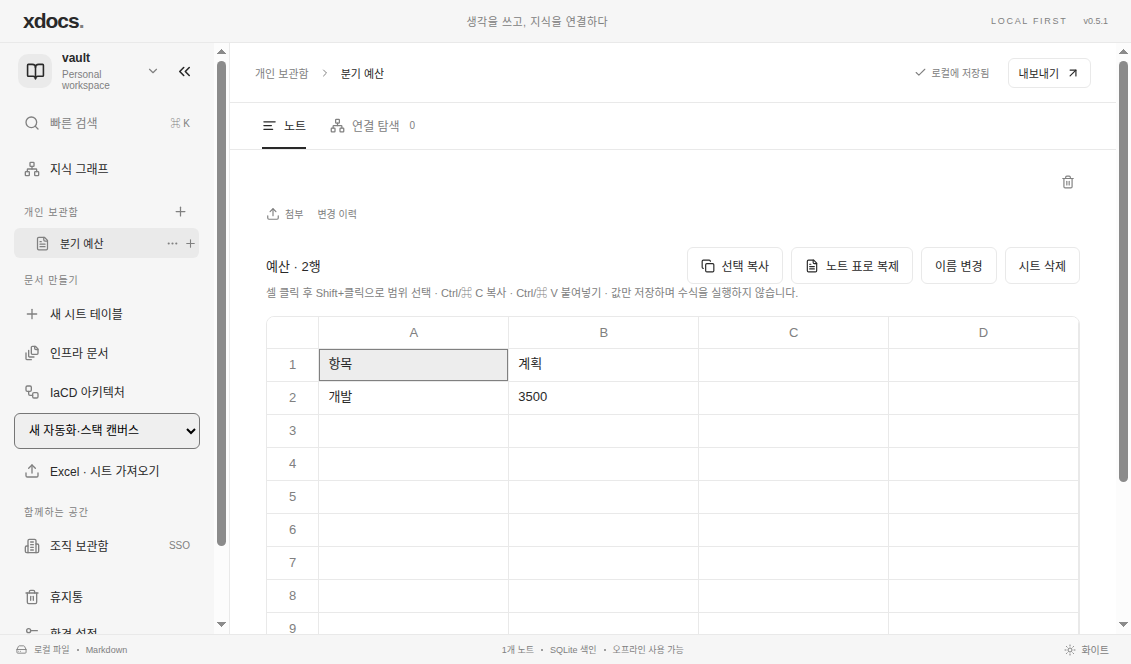
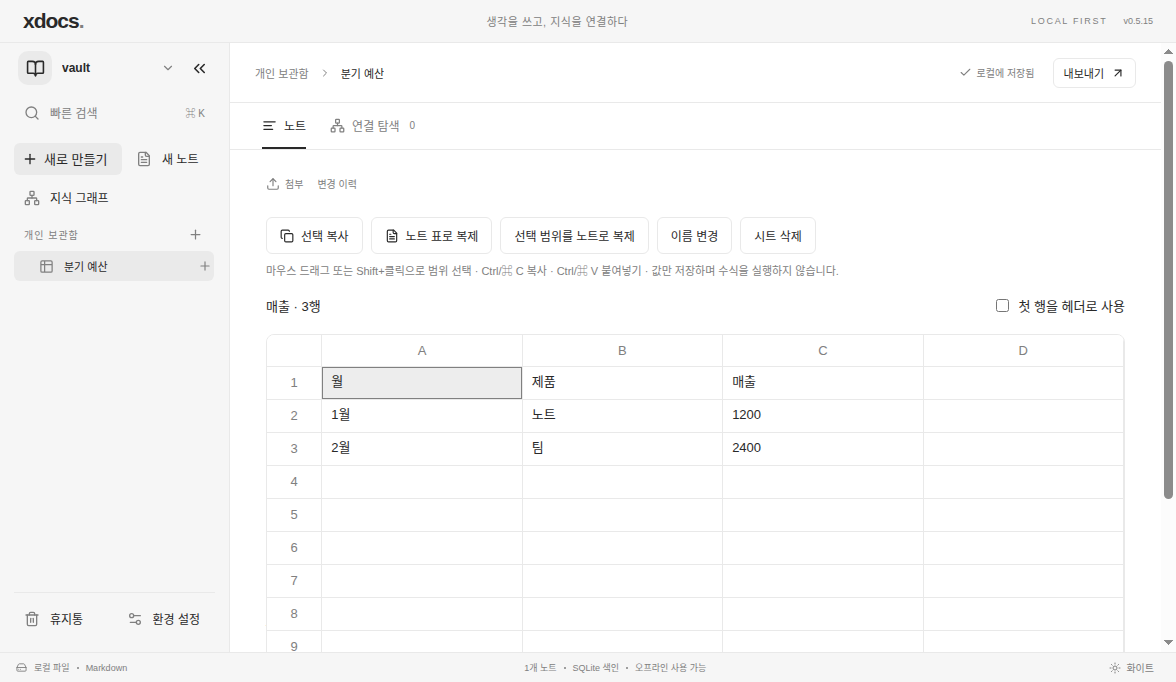
Support mouse range selection and optional worksheet headers

diff --git a/src/SheetTable.tsx b/src/SheetTable.tsx
@@ -1,4 +1,4 @@
-import { useState } from "react";
+import { useRef, useState } from "react";
 import { Plus, Copy, ChevronLeft, ChevronRight, FileText } from "lucide-react";
 import {
   parseDelimited,
@@ -8,7 +8,12 @@ import {
 } from "../shared/tabular.mjs";
 export interface SheetBook {
   version: 1;
-  sheets: { id: string; name: string; rows: string[][] }[];
+  sheets: {
+    id: string;
+    name: string;
+    firstRowHeader?: boolean;
+    rows: string[][];
+  }[];
 }
 export default function SheetTable({
   workbook,
@@ -118,12 +123,81 @@ export default function SheetTable({
       label = String.fromCharCode(65 + ((n - 1) % 26)) + label;
     return label;
   };
+  const pointer = useRef<number | null>(null);
+  function extendSelection(e: React.PointerEvent<HTMLTableElement>) {
+    const cell = document
+      .elementFromPoint(e.clientX, e.clientY)
+      ?.closest("td,th")
+      ?.querySelector("textarea");
+    if (!cell || !e.currentTarget.contains(cell)) return;
+    const r = Number(cell.dataset.row),
+      c = Number(cell.dataset.column);
+    setEnd((prev) => (prev[0] === r && prev[1] === c ? prev : [r, c]));
+  }
+  function renderRow(r: number, header = false) {
+    const Cell = header ? "th" : "td";
+    return (
+      <tr key={r}>
+        <th>{r + 1}</th>
+        {Array.from({ length: columns }, (_, c) => (
+          <Cell
+            scope={header ? "col" : undefined}
+            key={c}
+            className={
+              r >= minR && r <= maxR && c >= minC && c <= maxC ? "selected" : ""
+            }
+          >
+            <textarea
+              rows={1}
+              data-multiline={sheet.rows[r]?.[c]?.includes("\n") || undefined}
+              aria-label={`${sheet.name} ${letter(c)}${r + 1}`}
+              value={sheet.rows[r]?.[c] || ""}
+              readOnly={readonly}
+              onKeyDown={(e) => {
+                if (
+                  e.altKey ||
+                  !["Tab", "ArrowDown", "ArrowUp"].includes(e.key)
+                )
+                  return;
+                e.preventDefault();
+                let nr = r,
+                  nc = c;
+                if (e.key === "Tab") {
+                  nc += e.shiftKey ? -1 : 1;
+                  if (nc >= columns) {
+                    nc = 0;
+                    nr++;
+                  }
+                  if (nc < 0) {
+                    nc = columns - 1;
+                    nr--;
+                  }
+                } else nr += e.key === "ArrowDown" ? 1 : -1;
+                nr = Math.max(0, Math.min(rowCount - 1, nr));
+                setAnchor([nr, nc]);
+                setEnd([nr, nc]);
+                setPage(Math.floor(nr / 100));
+                const book = e.currentTarget.closest(".sheet-book");
+                requestAnimationFrame(() =>
+                  book
+                    ?.querySelector<HTMLTextAreaElement>(
+                      `textarea[data-row="${nr}"][data-column="${nc}"]`,
+                    )
+                    ?.focus(),
+                );
+              }}
+              data-row={r}
+              data-column={c}
+              onChange={(e) => updateCell(r, c, e.target.value)}
+            />
+          </Cell>
+        ))}
+      </tr>
+    );
+  }
   return (
     <section className="sheet-book" aria-label="시트 탭형 테이블">
       <div className="sheet-toolbar">
-        <span>
-          <strong>{sheet.name}</strong> · {sheet.rows.length.toLocaleString()}행
-        </span>
         <button
           className="button"
           onClick={async () => {
@@ -138,6 +212,7 @@ export default function SheetTable({
           <Copy size={14} />
           선택 복사
         </button>
+
         <button
           className="button"
           disabled={readonly}
@@ -148,10 +223,35 @@ export default function SheetTable({
           <FileText size={14} />
           노트 표로 복제
         </button>
-        {!readonly && <button className="button" onClick={()=>{
-          const range=sheet.name+"!"+letter(minC)+(minR+1)+":"+letter(maxC)+(maxR+1);
-          onNote(range,"# "+range+"\n\n"+sheetMarkdown({...sheet,rows:selection()})+"\n");
-        }}>선택 범위를 노트로 복제</button>}
+        {!readonly && (
+          <button
+            className="button"
+            onClick={() => {
+              const range =
+                sheet.name +
+                "!" +
+                letter(minC) +
+                (minR + 1) +
+                ":" +
+                letter(maxC) +
+                (maxR + 1);
+              onNote(
+                range,
+                "# " +
+                  range +
+                  "\n\n" +
+                  sheetMarkdown({
+                    ...sheet,
+                    firstRowHeader: !!sheet.firstRowHeader && minR === 0,
+                    rows: selection(),
+                  }) +
+                  "\n",
+              );
+            }}
+          >
+            선택 범위를 노트로 복제
+          </button>
+        )}
         {!readonly && (
           <>
             <button className="button" onClick={rename}>
@@ -182,10 +282,33 @@ export default function SheetTable({
         )}
       </div>
       <p className="small-text muted">
-        셀 클릭 후 Shift+클릭으로 범위 선택 · Ctrl/⌘ C 복사 · Ctrl/⌘ V 붙여넣기
-        · 값만 저장하며 수식을 실행하지 않습니다.
+        마우스 드래그 또는 Shift+클릭으로 범위 선택 · Ctrl/⌘ C 복사 · Ctrl/⌘ V
+        붙여넣기 · 값만 저장하며 수식을 실행하지 않습니다.
       </p>
       {message && <p role="status">{message}</p>}
+      <div className="sheet-grid-settings">
+        <span>
+          <strong>{sheet.name}</strong> · {sheet.rows.length.toLocaleString()}행
+        </span>
+        <label className="sheet-header-option">
+          <input
+            type="checkbox"
+            checked={Boolean(sheet.firstRowHeader)}
+            disabled={readonly}
+            onChange={(e) =>
+              commit({
+                ...workbook,
+                sheets: workbook.sheets.map((s) =>
+                  s.id === sheet.id
+                    ? { ...s, firstRowHeader: e.target.checked }
+                    : s,
+                ),
+              })
+            }
+          />
+          첫 행을 헤더로 사용
+        </label>
+      </div>
       <div
         className="sheet-scroll"
         onCopy={(e) => {
@@ -198,7 +321,38 @@ export default function SheetTable({
           paste(e.clipboardData.getData("text/plain"));
         }}
       >
-        <table className="sheet-grid" aria-label={sheet.name}>
+        <table
+          className="sheet-grid"
+          aria-label={sheet.name}
+          onPointerDown={(e) => {
+            const cell = (e.target as Element).closest("textarea");
+            if (!cell || e.button !== 0) return;
+            const pos: [number, number] = [
+              Number(cell.dataset.row),
+              Number(cell.dataset.column),
+            ];
+            if (!e.shiftKey) setAnchor(pos);
+            setEnd(pos);
+            if (e.pointerType === "mouse") {
+              pointer.current = e.pointerId;
+              cell.setPointerCapture(e.pointerId);
+            }
+          }}
+          onPointerMove={(e) => {
+            if (pointer.current !== e.pointerId || !(e.buttons & 1)) return;
+            extendSelection(e);
+          }}
+          onLostPointerCapture={() => {
+            pointer.current = null;
+          }}
+          onPointerUp={(e) => {
+            if (pointer.current === e.pointerId) extendSelection(e);
+            pointer.current = null;
+          }}
+          onPointerCancel={() => {
+            pointer.current = null;
+          }}
+        >
           <thead>
             <tr>
               <th></th>
@@ -206,79 +360,14 @@ export default function SheetTable({
                 <th key={c}>{letter(c)}</th>
               ))}
             </tr>
+            {sheet.firstRowHeader && renderRow(0, true)}
           </thead>
           <tbody>
             {Array.from(
               { length: Math.min(100, Math.max(0, rowCount - page * 100)) },
               (_, offset) => {
                 const r = page * 100 + offset;
-                return (
-                  <tr key={r}>
-                    <th>{r + 1}</th>
-                    {Array.from({ length: columns }, (_, c) => (
-                      <td
-                        key={c}
-                        className={
-                          r >= minR && r <= maxR && c >= minC && c <= maxC
-                            ? "selected"
-                            : ""
-                        }
-                      >
-                        <textarea
-                          rows={1}
-                          data-multiline={sheet.rows[r]?.[c]?.includes("\n") || undefined}
-                          aria-label={`${sheet.name} ${letter(c)}${r + 1}`}
-                          value={sheet.rows[r]?.[c] || ""}
-                          readOnly={readonly}
-                          onClick={(e) => {
-                            if (e.shiftKey) setEnd([r, c]);
-                            else {
-                              setAnchor([r, c]);
-                              setEnd([r, c]);
-                            }
-                          }}
-
-                          onKeyDown={(e) => {
-                            if (
-                              e.altKey ||
-                              !["Tab", "ArrowDown", "ArrowUp"].includes(e.key)
-                            )
-                              return;
-                            e.preventDefault();
-                            let nr = r,
-                              nc = c;
-                            if (e.key === "Tab") {
-                              nc += e.shiftKey ? -1 : 1;
-                              if (nc >= columns) {
-                                nc = 0;
-                                nr++;
-                              }
-                              if (nc < 0) {
-                                nc = columns - 1;
-                                nr--;
-                              }
-                            } else nr += e.key === "ArrowDown" ? 1 : -1;
-                            nr = Math.max(0, Math.min(rowCount - 1, nr));
-                            setAnchor([nr, nc]);
-                            setEnd([nr, nc]);
-                            setPage(Math.floor(nr / 100));
-                            const book = e.currentTarget.closest(".sheet-book");
-                            requestAnimationFrame(() =>
-                              book
-                                ?.querySelector<HTMLTextAreaElement>(
-                                  `textarea[data-row="${nr}"][data-column="${nc}"]`,
-                                )
-                                ?.focus(),
-                            );
-                          }}
-                          data-row={r}
-                          data-column={c}
-                          onChange={(e) => updateCell(r, c, e.target.value)}
-                        />
-                      </td>
-                    ))}
-                  </tr>
-                );
+                return sheet.firstRowHeader && r === 0 ? null : renderRow(r);
               },
             )}
           </tbody>

diff --git a/src/styles.css b/src/styles.css
@@ -1751,6 +1751,10 @@ textarea {
   font: inherit;
   border-radius: 0;
 }
+.sheet-grid thead tr:nth-child(2) th { top: 32px; font-weight: 650; color: var(--ink); }
+.sheet-grid-settings {display:flex; flex-wrap:wrap; align-items:center; justify-content:space-between; column-gap:16px; row-gap:4px; margin:8px 0 4px; font-size:13px;}
+.sheet-header-option {display:inline-flex; align-items:center; gap:6px; min-height:32px; cursor:pointer;}
+.sheet-grid th.selected,
 .sheet-grid td.selected {
   background: var(--hover);
   box-shadow: inset 0 0 0 1px var(--muted);

diff --git a/docs/sheets.md b/docs/sheets.md
@@ -4,6 +4,8 @@
 
 **새 시트 테이블**에서 독립된 시트 문서를 만들거나 **Excel·CSV 시트 가져오기**로 파일을 선택합니다. 시트 탭, 셀 값 편집, 시트 추가·이름 변경·삭제, 행·열 추가를 지원합니다. 계산 엔진은 포함하지 않으며 `=SUM(...)`처럼 입력한 값도 텍스트입니다. Google Sheets와 같은 탭 구조를 제공하지만 Google 계정 연결이나 실시간 Sheets API 동기화는 하지 않습니다.
 
+셀에서 마우스를 누른 채 마지막 셀까지 끌면 직사각형 범위가 선택됩니다. **선택 복사** 또는 Ctrl/⌘+C로 탭 구분 텍스트를 복사할 수 있습니다. 가져온 시트의 첫 행은 기본적으로 데이터입니다. **첫 행을 헤더로 사용**을 켜면 해당 행이 열 제목으로 고정됩니다. 이 설정은 시트별로 저장되며 언제든 해제할 수 있습니다.
+
 ## 파일 가져오기
 
 | 입력                                   | 동작                                                                                                |
